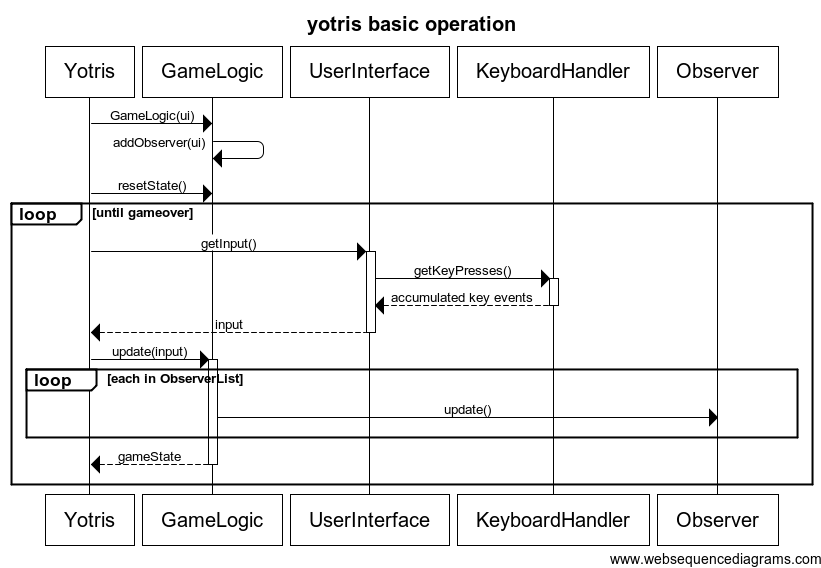
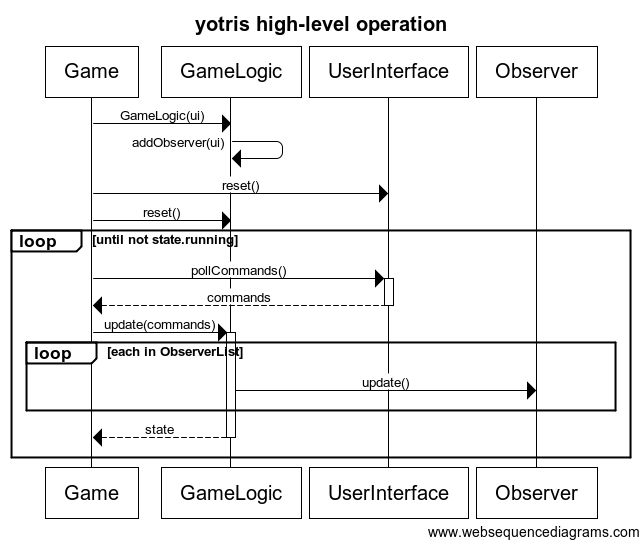
update sequence diagrams & add some docs

Changed region(s): [[0.0, 0.0296, 1.0, 1.0], [0.4375, 0.2366, 0.4688, 0.2957]]

diff --git a/yotris/src/main/java/com/lofibucket/yotris/util/HighScores.java b/yotris/src/main/java/com/lofibucket/yotris/util/HighScores.java
@@ -5,6 +5,9 @@ import java.util.ArrayList;
 import java.util.Collections;
 import java.util.List;
 
+/**
+ * A class for manipulating and storing the high score table.
+ */
 public class HighScores {
 	private ArrayList<ScoreEntry> scorelist;
 	private FileDAO dao;
@@ -27,6 +30,7 @@ public class HighScores {
 		ScoreEntry entry = new ScoreEntry(name, score);
 
 		List<ScoreEntry> top = getTopTen();
+
 		if (top.size() < 10) {
 			scorelist.add(entry);
 			dao.saveScorelist();
